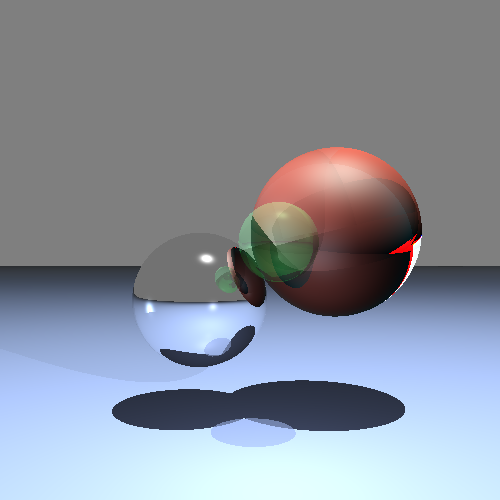
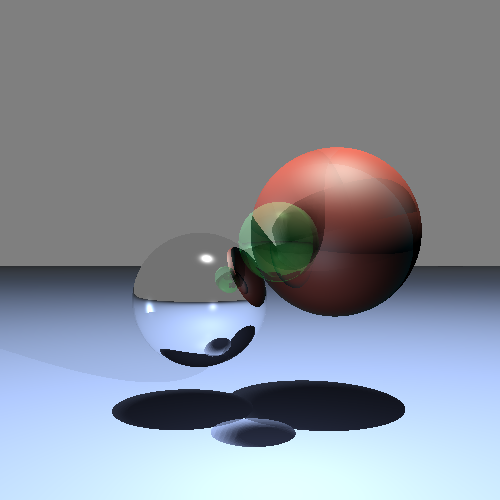
soft shadows ?

diff --git a/src/RayTracing/RayTracer.java b/src/RayTracing/RayTracer.java
@@ -92,8 +92,8 @@ public class RayTracer {
 			++lineNum;
 
 			if (line.isEmpty() || (line.charAt(0) == '#')) { // This line in the
-																// scene file is
-																// a comment
+				// scene file is
+				// a comment
 				continue;
 			} else {
 				String code = line.substring(0, 3).toLowerCase();
@@ -112,12 +112,12 @@ public class RayTracer {
 					cam.setUvY(Integer.parseInt(params[7])); // set up vector y
 					cam.setUvZ(Integer.parseInt(params[8])); // set up vector z
 					cam.setSc_dist(Double.parseDouble(params[9])); // set up
-																	// distance
-																	// from view
+					// distance
+					// from view
 					cam.setSw_from_cam(Integer.parseInt(params[10]));// set up
-																		// width
-																		// from
-																		// view
+					// width
+					// from
+					// view
 
 					scene.setCam(cam); // set camera to scene
 
@@ -126,21 +126,21 @@ public class RayTracer {
 
 					MySet set = new MySet();
 					set.setBgr(Double.parseDouble(params[0])); // R background
-																// color.
+					// color.
 					set.setBgg(Double.parseDouble(params[1])); // G background
-																// color.
+					// color.
 					set.setBgb(Double.parseDouble(params[2])); // B background
-																// color.
+					// color.
 					set.setSh_rays(Integer.parseInt(params[3])); // root number
-																	// of shadow
-																	// rays.
+					// of shadow
+					// rays.
 					set.setRec_max(Integer.parseInt(params[4])); // maximum
-																	// recursion.
+					// recursion.
 
 					if (params.length > 5) {
 						set.setSS(Integer.parseInt(params[5])); // super
-																// sampling
-																// level.
+						// sampling
+						// level.
 					} else {
 						set.setSS(2);
 					}
@@ -173,17 +173,17 @@ public class RayTracer {
 					sphere.setIndex(cnt_sph);
 					cnt_sph++;
 					sphere.setCx(Double.parseDouble(params[0])); // sphere
-																	// center x
+					// center x
 					sphere.setCy(Double.parseDouble(params[1])); // sphere
-																	// center y
+					// center y
 					sphere.setCz(Double.parseDouble(params[2])); // sphere
-																	// center z
+					// center z
 					sphere.setRadius(Double.parseDouble(params[3])); // radius
 					sphere.setMat_idx(Integer.parseInt(params[4])); // material
-																	// index
-																	// number
+					// index
+					// number
 					scene.getShapes().add(sphere); // add a sphere to the sphere
-													// list.
+					// list.
 
 					System.out.println(String.format("Parsed sphere (line %d)", lineNum));
 				} else if (code.equals("pln")) {
@@ -373,9 +373,9 @@ public class RayTracer {
 
 			// halting condition
 			if (rec == 0) {
-				red = mat.getDr();// set.getBgr();
+				red = mat.getDr();	// set.getBgr();
 				green = mat.getDg();// set.getBgg();
-				blue = mat.getDb();// set.getBgb();
+				blue = mat.getDb();	// set.getBgb();
 				double[] ans_stopping = { red, green, blue };
 				return ans_stopping;
 			}
@@ -396,11 +396,11 @@ public class RayTracer {
 		for (Shape sh : this.scene.getShapes()) {
 			if (sh != inputShape) {
 				if ((t = ray.inter(sh)) > 0) {
-						if (t < ray.t) {
-							ray.t = t;
-							shape = sh;
-							flag = 1; // hit
-						}
+					if (t < ray.t) {
+						ray.t = t;
+						shape = sh;
+						flag = 1; // hit
+					}
 				}
 			}
 		}
@@ -424,18 +424,28 @@ public class RayTracer {
 				Ir += ((mat.getDr() * (shape.getNormal(endPoint).dot(v)) * lightValues[0]) + (mat.getSr()
 						* Math.pow(shape.getR(endPoint, licht.getPosition()).dot(ray.getV()), mat.getPhong())
 						* lightValues[0])) * (1 - mat.getTrans()); // change
-																	// value of
-																	// power
+				// value of
+				// power
 				Ig += ((mat.getDg() * (shape.getNormal(endPoint).dot(v)) * lightValues[1]) + (mat.getSg()
 						* Math.pow(shape.getR(endPoint, licht.getPosition()).dot(ray.getV()), mat.getPhong())
 						* lightValues[1])) * (1 - mat.getTrans()); // change
-																	// value of
-																	// power
+				// value of
+				// power
 				Ib += ((mat.getDb() * (shape.getNormal(endPoint).dot(v)) * lightValues[2]) + (mat.getSb()
 						* Math.pow(shape.getR(endPoint, licht.getPosition()).dot(ray.getV()), mat.getPhong())
 						* lightValues[2])) * (1 - mat.getTrans()); // change
-																	// value of
-																	// power
+				// value of
+				// power
+//				if(Ir < 0){
+//					Ir = (-1)*Ir;
+//				}
+//				if(Ig < 0){
+//					Ig = (-1)*Ig;
+//				}
+//				if(Ib < 0){
+//					Ib = (-1)*Ib;
+//				}
+
 			}
 
 			// reflection
@@ -446,11 +456,11 @@ public class RayTracer {
 
 			// get base color by ray.
 			red = Ir; // this.scene.materials.get(shape.getMat_idx() -1
-						// ).getDr() * 255 * lightValues[0];
+			// ).getDr() * 255 * lightValues[0];
 			green = Ig; // this.scene.materials.get(shape.getMat_idx() -1
-						// ).getDg() * 255 * lightValues[1];
+			// ).getDg() * 255 * lightValues[1];
 			blue = Ib; // this.scene.materials.get(shape.getMat_idx() -1
-						// ).getDb() * 255 * lightValues[2];
+			// ).getDb() * 255 * lightValues[2];
 		} else {
 			// hit nothing
 			red = set.getBgr();
@@ -460,6 +470,17 @@ public class RayTracer {
 			return ans_stopping;
 
 		}
+
+		if (red < 0){
+			red = 0;
+		}
+		if (green < 0){
+			green = 0;
+		}
+		if (blue < 0){
+			blue = 0;
+		}
+
 		double[] ans = { red, green, blue };
 		return ans;
 	}
@@ -467,7 +488,7 @@ public class RayTracer {
 	private Vector getBackgroundColor(double inputRed, double inputGreen, double inputBlue, Shape shape,
 			Vector endPoint, Ray ray, int rec) {
 		Ray newRay = new Ray(Double.POSITIVE_INFINITY, endPoint, ray.getV());
-		
+
 		MySet set = this.scene.getMySet();
 		double red = 0, green = 0, blue = 0;
 		double t = 0;
@@ -480,11 +501,11 @@ public class RayTracer {
 			return (ans);
 		}
 		double[] recans = sampleColorByRayRec(newRay, t, red, green, blue, rec - 1, shape);
-//		for (int i = 0; i < 3; i++) {
-//			if(recans[i] > 1){
-//				recans[i] = 1;
-//			}
-//		}
+		//		for (int i = 0; i < 3; i++) {
+		//			if(recans[i] > 1){
+		//				recans[i] = 1;
+		//			}
+		//		}
 		Vector ans = new Vector(recans[0], recans[1], recans[2]);
 		//Vector ans = new Vector(inputRed + recans[0], inputGreen + recans[1], inputBlue + recans[2]);
 		return ans;
@@ -566,7 +587,7 @@ public class RayTracer {
 
 	private double[] getlightValues(Vector endPoint, Light licht, Shape OriginalShape) {
 
-		int softShadows = 0; // TODO
+		int softShadows = 1; // TODO
 		double[] ans = { 0, 0, 0 };
 		Vector v = licht.getPosition().sub(endPoint);
 		v = v.normalize();
@@ -604,9 +625,9 @@ public class RayTracer {
 				ans[2] = licht.getB() * (1 - licht.getShadow() * shade);
 
 				if (softShadows > 0) {
-					double softShade = getSoftShadowValue(hitShape, licht, endPoint);
+					double softShade = getSoftShadowValue(hitShape, licht,rayOfLight, endPoint);
 					for (int i = 0; i < 3; i++) {
-						ans[i] *= softShade;
+						ans[i] *= (softShade);
 					}
 				}
 			}
@@ -625,26 +646,33 @@ public class RayTracer {
 		return ans;
 	}
 
-	private double getSoftShadowValue(Shape sh, Light licht, Vector endPoint) {
+	private double getSoftShadowValue(Shape sh, Light licht, Ray rayOfLight, Vector endPoint) {
 		double shRays = (double) this.scene.getMySet().getSh_rays();
 		double cnt = 0;
-
-		for (double i = -(licht.getWidth() / 2); i < (licht.getWidth() / 2); i += (licht.getWidth() / shRays)) {
-			for (double j = -(licht.getWidth() / 2); j < (licht.getWidth() / 2); j += (licht.getWidth() / shRays)) {
+		
+		Vector prepUP = rayOfLight.getV().perpendicular();
+		Vector prepDown = prepUP.mult(-1);
+		Vector prepLeft = prepUP.cross(rayOfLight.getV().mult(-1));
+		Vector prepRight = prepLeft.mult(-1);
+		
+		Vector p1 = (licht.getPosition()).add(prepLeft.mult(licht.getWidth()/2));
+		Vector startPoint = p1.add(prepUP.mult(licht.getWidth()/2));
+		double cellSize = licht.getWidth() / shRays;
+		
+		for (int i = 0; i < shRays; i++){
+			for (int j = 0; j < shRays; j++){
 				Vector p0 = endPoint;
-				Vector p = licht.getPosition();
-				// p.change; // TODO change into
+				Vector p = ( startPoint.add(prepDown.mult(cellSize * i)) ).add(prepRight.mult(cellSize * j)) ; 
 				Vector v = (p.sub(p0)).normalize();
 				double t = p0.getDistanceScalar(p);
 				Ray ray = new Ray(t, p0, v);
-
 				if (ray.inter(sh) > 0) {
 					cnt += 1;
 				}
 			}
 		}
 		double ans = cnt / (shRays * shRays);
-		return 1;
+		return ans; // TODO return ans aaa
 	}
 
 	// public double[] getlightValues(RayTracer rayTracer, Vector endPoint,Shape

diff --git a/src/RayTracing/Vector.java b/src/RayTracing/Vector.java
@@ -90,5 +90,13 @@ public class Vector {
 		return ans;
 	}
 
+	public Vector perpendicular() {
+		double x = this.y - this.z;
+		double y = this.x;
+		double z = -this.x;
+		Vector ans = new Vector(x,y,z);
+		return ans;
+	}
+
 
 }
